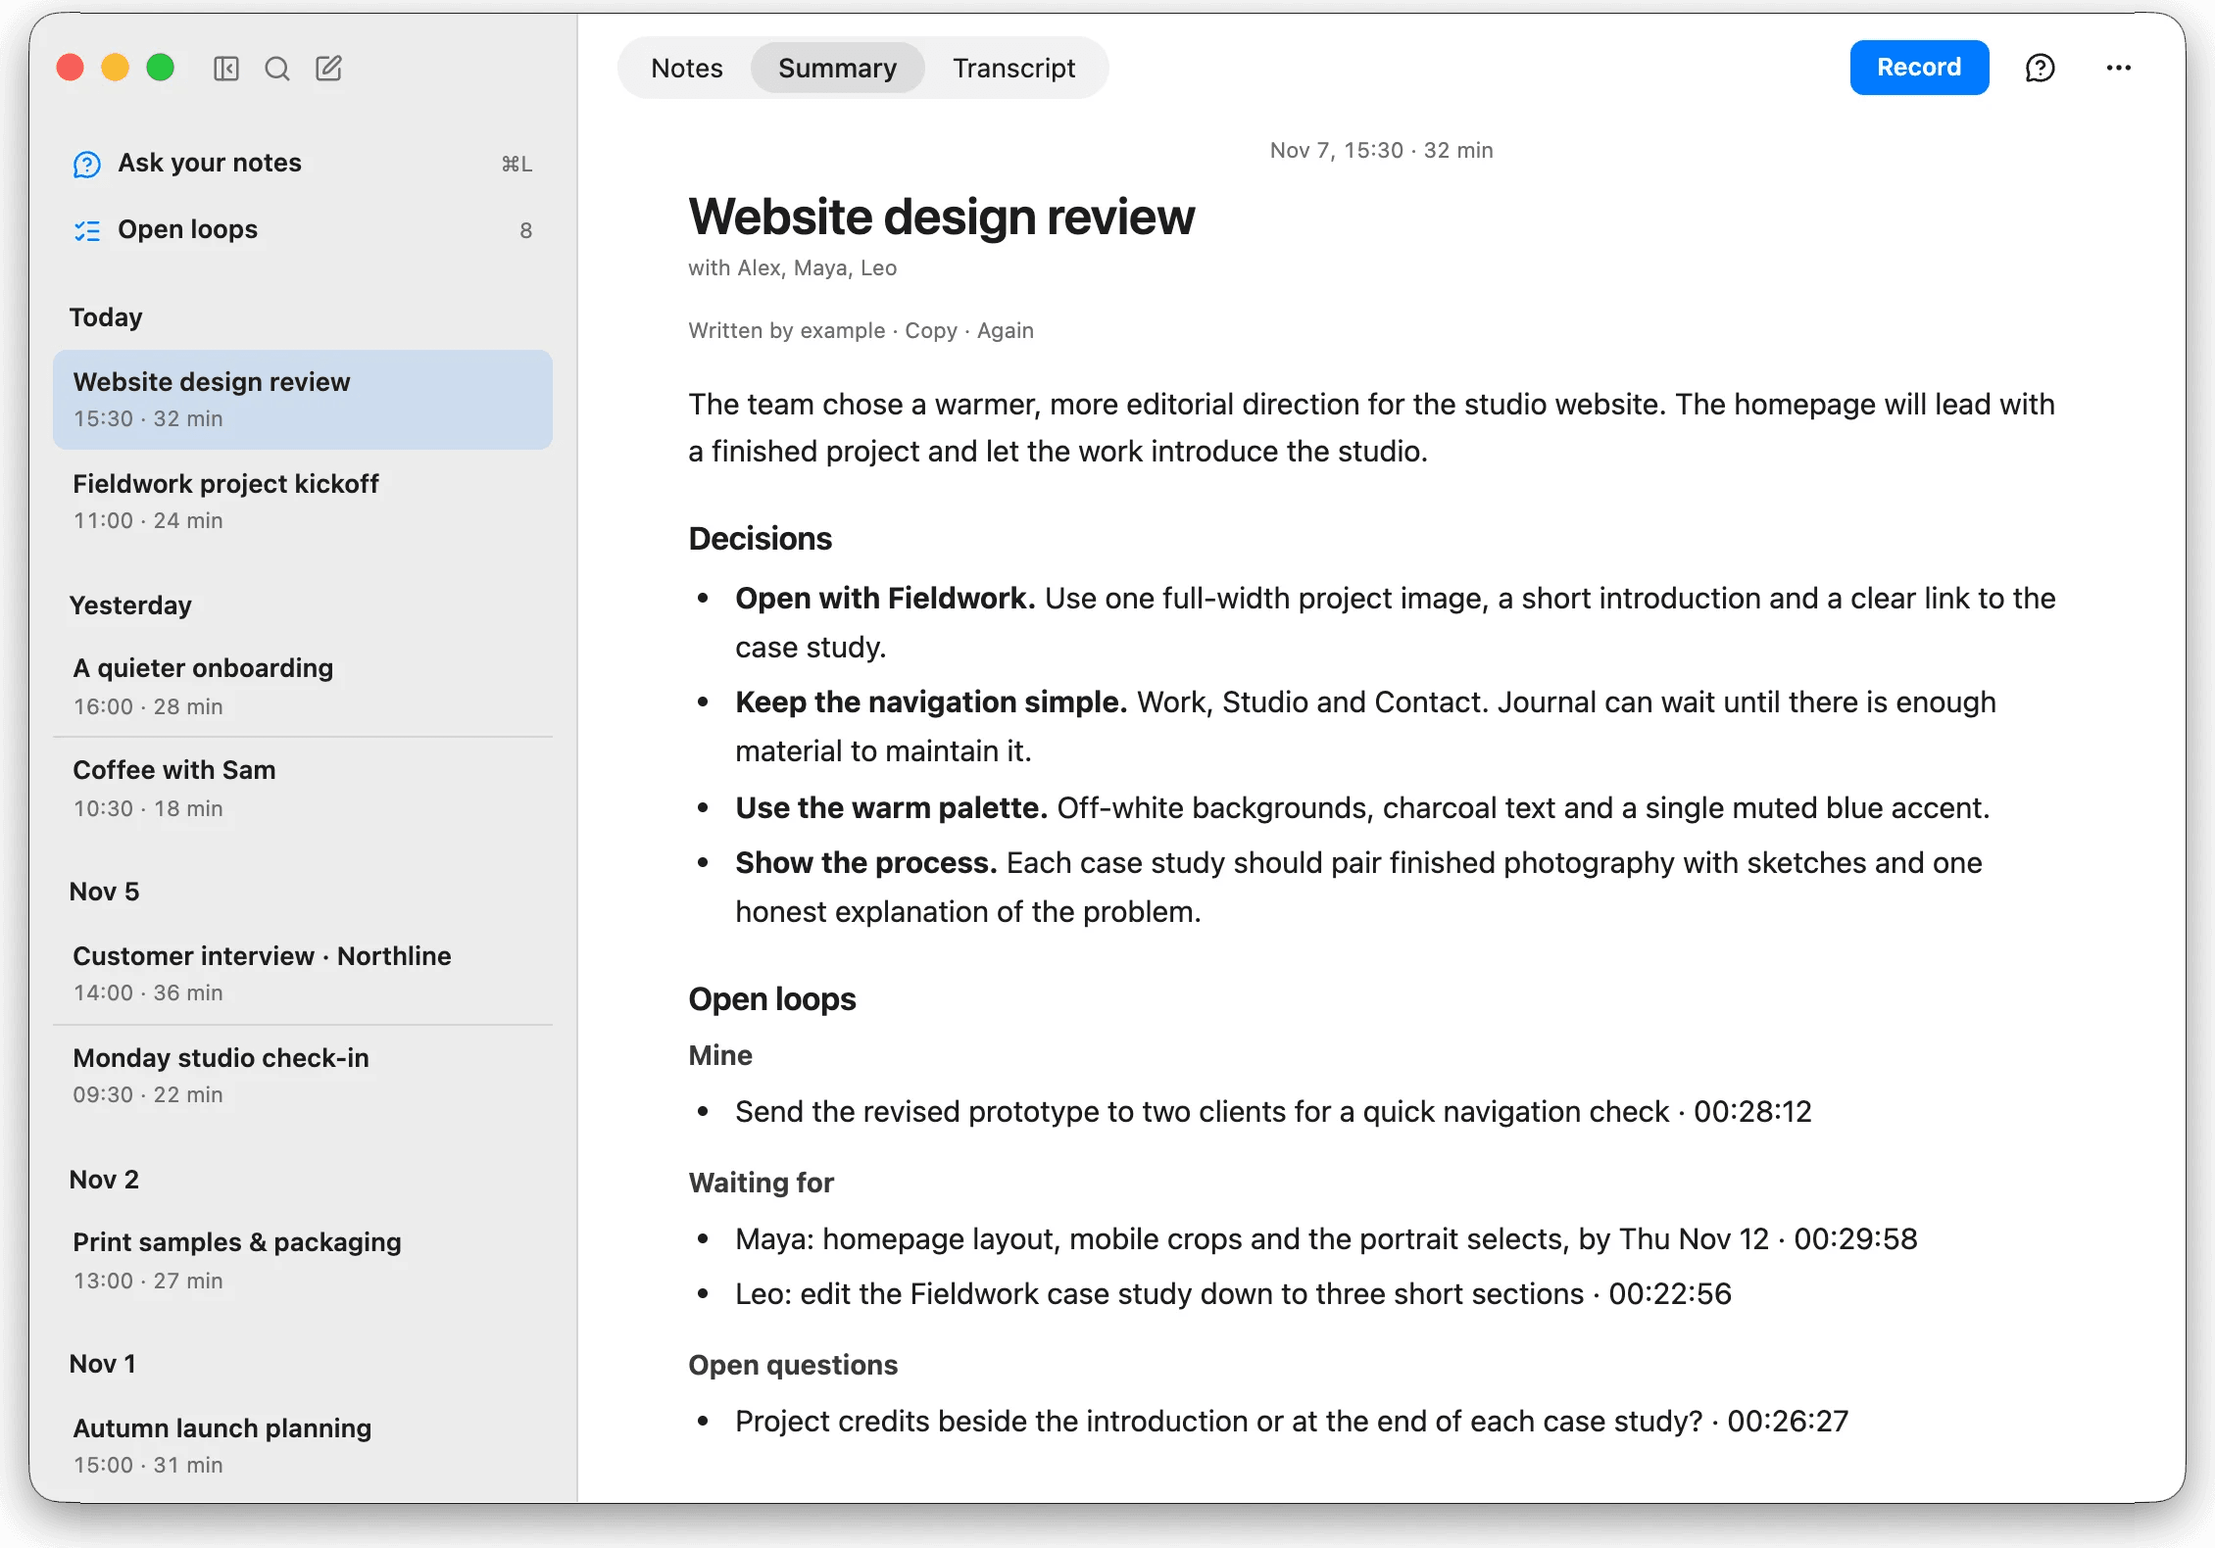
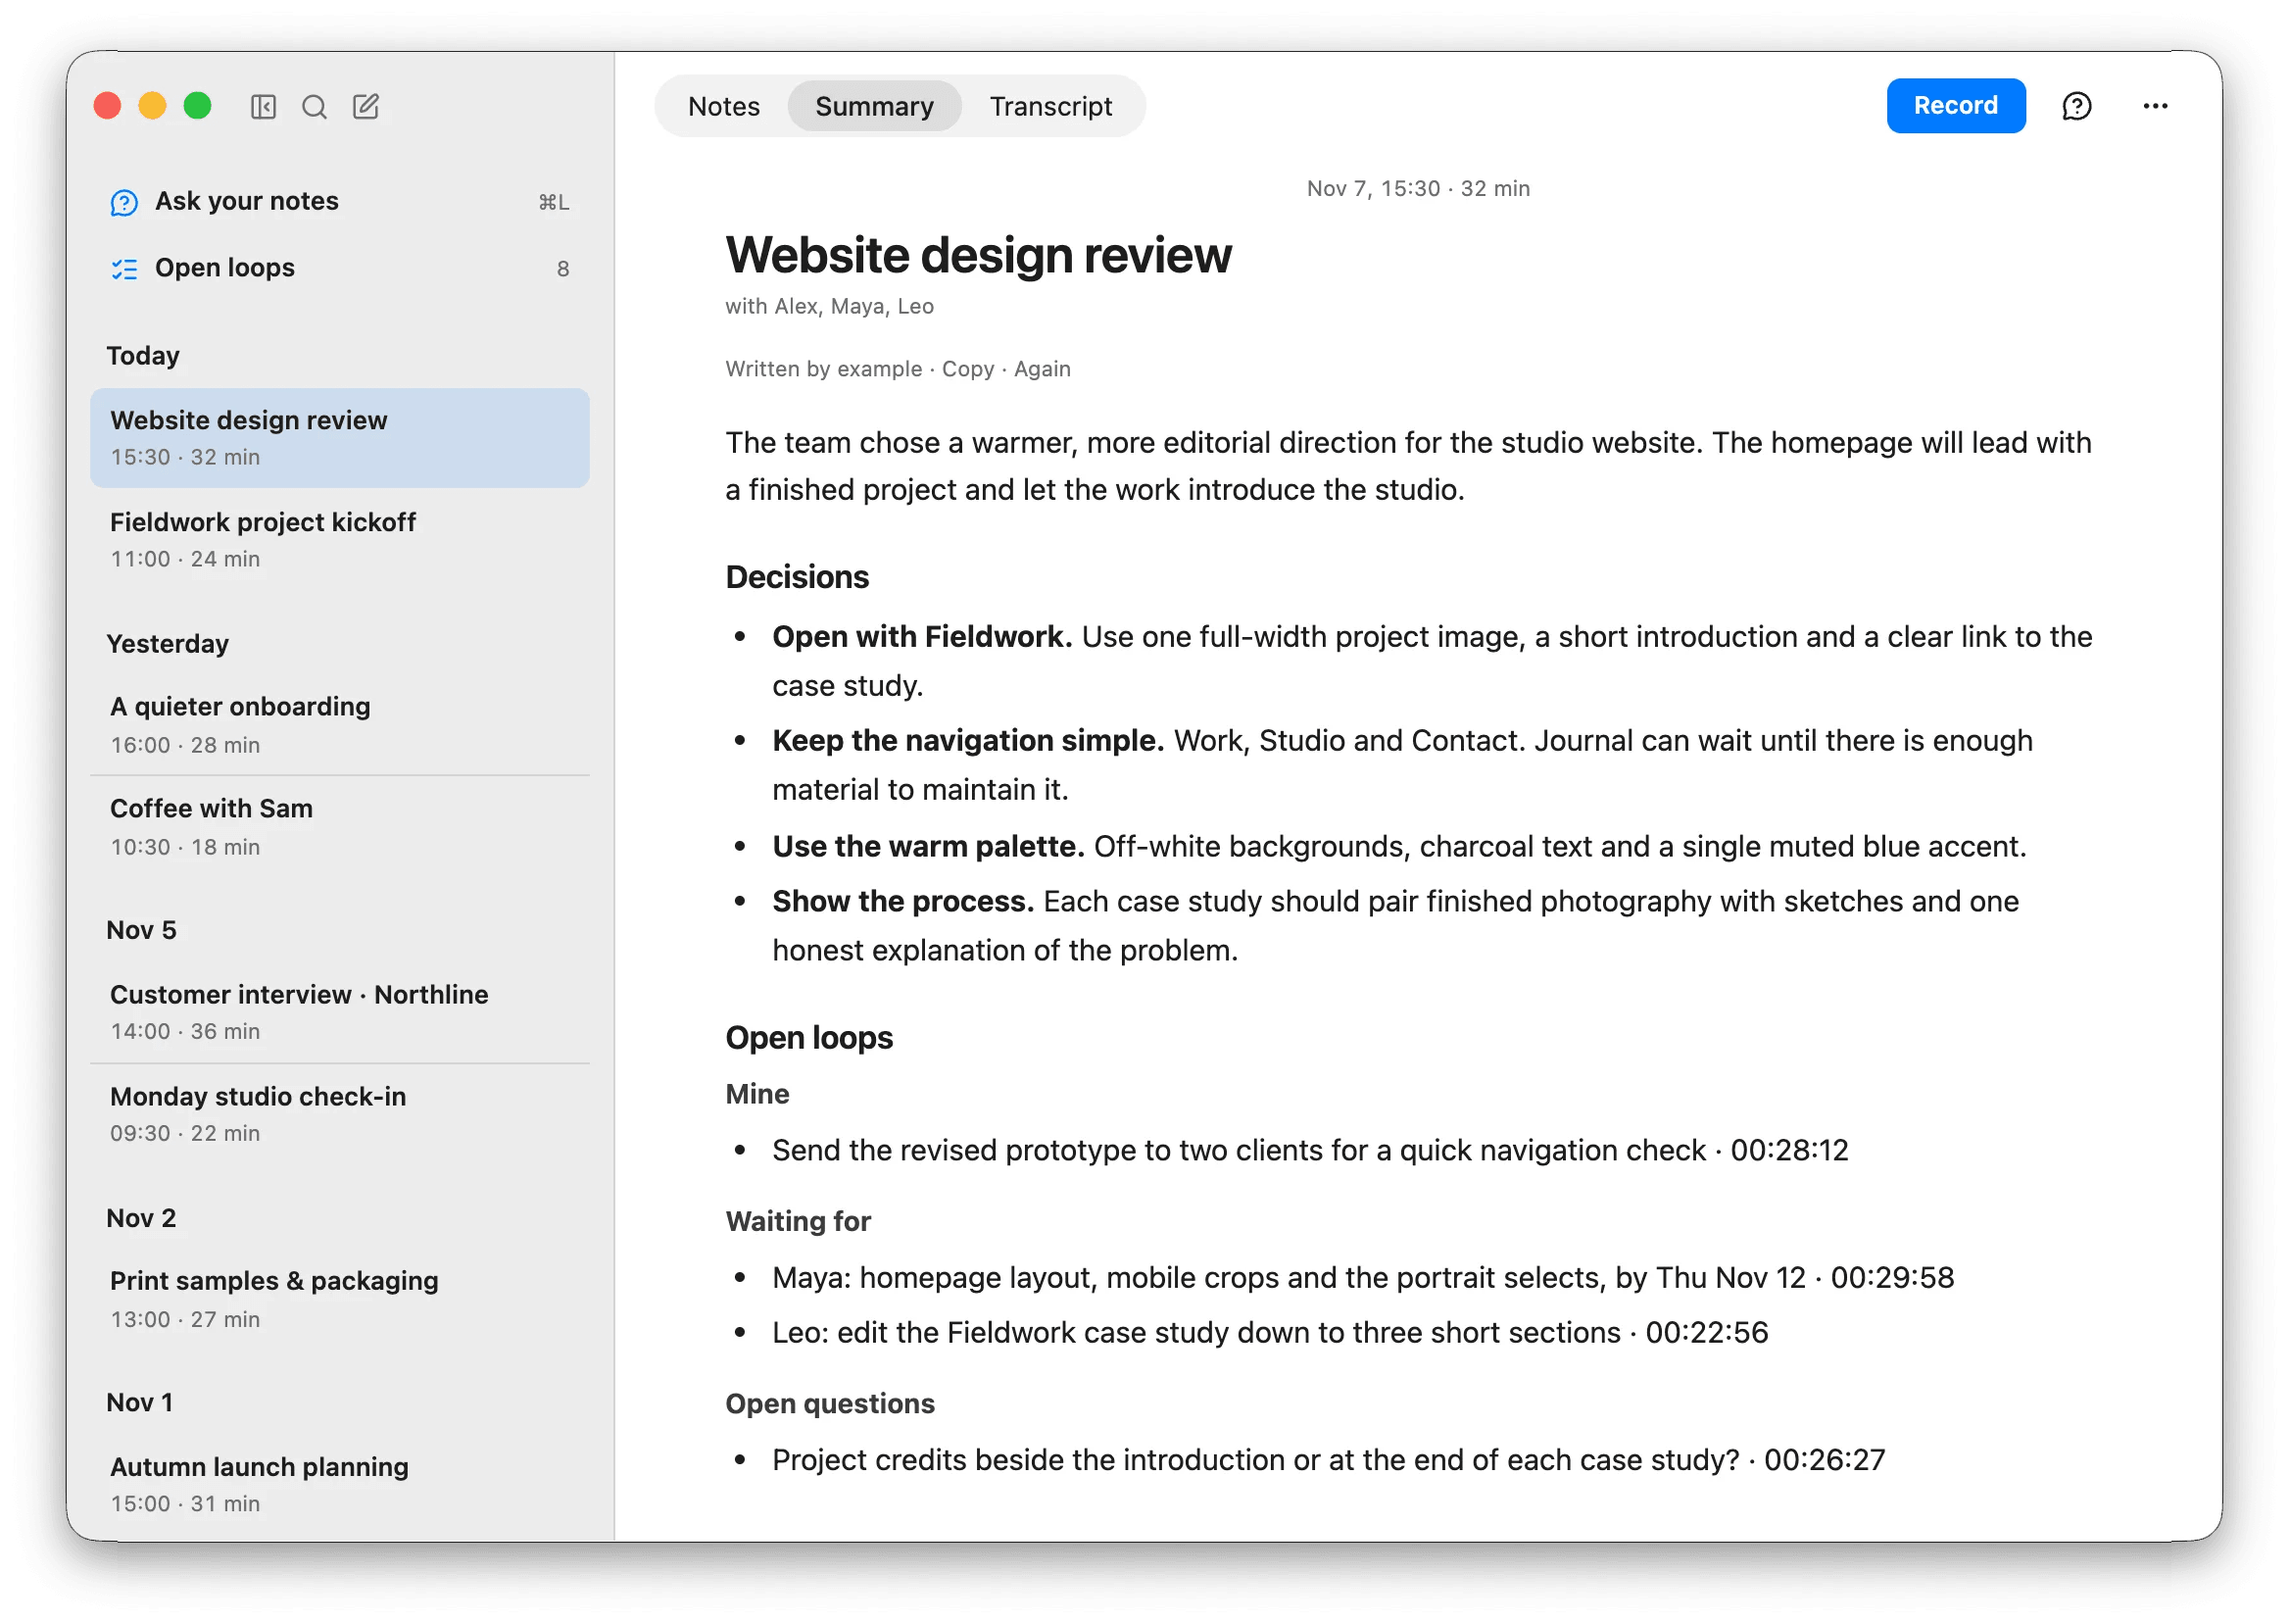
fix(site): keep the whole window shadow in the screenshots
Trimming the frame at a 5% alpha threshold cut the shadow along a
rectangle. The capture already fades to nothing inside its margins, so
the images keep them and the page's sizes follow.

diff --git a/site/src/index.html b/site/src/index.html
@@ -59,8 +59,8 @@
       </div>
       <figure class="shot">
         <picture>
-          <source type="image/webp" srcset="{{asset:app-summary.webp}} 1130w, {{asset:app-summary@2x.webp}} 2260w" sizes="(min-width: 1312px) 1216px, calc(100vw - 2rem)">
-          <img src="{{asset:app-summary.png}}" width="1130" height="790" fetchpriority="high" decoding="async"
+          <source type="image/webp" srcset="{{asset:app-summary.webp}} 1168w, {{asset:app-summary@2x.webp}} 2336w" sizes="(min-width: 1312px) 1216px, calc(100vw - 2rem)">
+          <img src="{{asset:app-summary.png}}" width="1168" height="828" fetchpriority="high" decoding="async"
             alt="The Simstim window. On the left, a list of recent calls grouped by day. On the right, the summary of a website design review: a short paragraph, a list of decisions and the call's open loops: one thing to do, two things to wait for and one open question, each with the moment it was said.">
         </picture>
       </figure>
@@ -105,8 +105,8 @@
       </p>
       <figure class="shot">
         <picture>
-          <source type="image/webp" srcset="{{asset:app-loops.webp}} 1130w, {{asset:app-loops@2x.webp}} 2260w" sizes="(min-width: 1312px) 1216px, calc(100vw - 2rem)">
-          <img src="{{asset:app-loops.png}}" width="1130" height="930" loading="lazy" decoding="async"
+          <source type="image/webp" srcset="{{asset:app-loops.webp}} 1168w, {{asset:app-loops@2x.webp}} 2336w" sizes="(min-width: 1312px) 1216px, calc(100vw - 2rem)">
+          <img src="{{asset:app-loops.png}}" width="1168" height="968" loading="lazy" decoding="async"
             alt="The Open loops pane in Simstim. Under Mine, four things to do. Under Waiting for, four things other people promised, each starting with their name. One open question. Each item names its call and date, and a Done section with two checked items sits at the bottom.">
         </picture>
       </figure>
